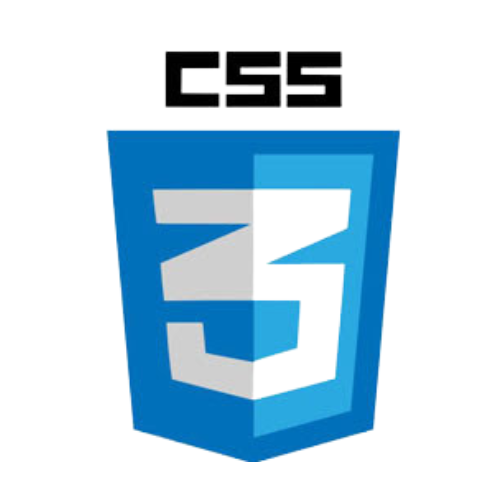
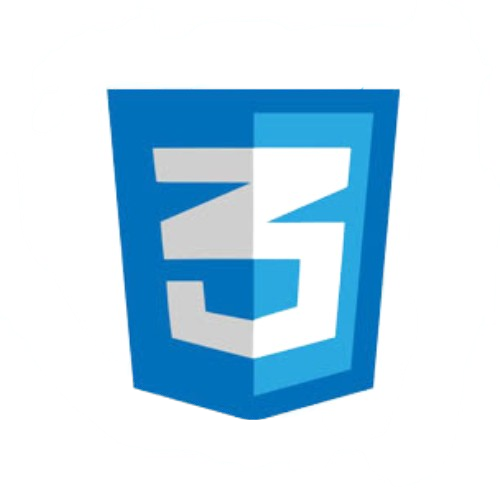
skills prontas

Changed region(s): [[0.21, 0.09, 0.81, 0.93]]

diff --git a/src/components/skills/Skills.tsx b/src/components/skills/Skills.tsx
@@ -6,9 +6,18 @@ import csharp from "../../img/csharp.png"
 import sass from "../../img/sass.png"
 import node from "../../img/node.png"
 import php from "../../img/php.png"
+import html from "../../img/html.png"
+import css from "../../img/css.png"
 import react from "../../img/react.png"
+import mysql from "../../img/mysql.png"
+import bootstrap from "../../img/bootstrap.png"
+import tailwind from "../../img/tailwinds.png"
+import figma     from "../../img/figma.png"
+import jquery from "../../img/jquery.png"
+import wordpress from "../../img/wordpress.png"
 import { useSelector } from "react-redux";
 import { RootState } from "../../store/store";
+import Marquee from "react-fast-marquee";
 
 export const Skills: React.FC = () => {
 
@@ -21,39 +30,64 @@ export const Skills: React.FC = () => {
 
     const claro: Tema = {
         DivImg: "p-2 shadow-[0px_10px_20px_#333333bd] rounded-2xl",
-        CssImg: "w-50 object-contain"
+        CssImg: "w-45 object-contain"
     }
 
     return (
         <main>
             <h1 className={`${darkMode ? "text-[#7f5af0]" : "text-[#0400ff]"} text-5xl py-10 flex justify-center`}>Skills</h1>
-            <div className="flex justify-center gap-5 my-7 mx-10">
-                <div className={claro.DivImg}>
-                    <img src={js} alt="" className={claro.CssImg} />
+            <Marquee speed={130}>
+                <div className="flex justify-center gap-5 m-5 ">
+                    <div className={claro.DivImg}>
+                        <img src={html} alt="" className={claro.CssImg} />
+                    </div>
+                    <div className={claro.DivImg}>
+                        <img src={css} alt="" className={claro.CssImg} />
+                    </div>
+                    <div className={claro.DivImg}>
+                        <img src={js} alt="" className={claro.CssImg} />
+                    </div>
+                    <div className={claro.DivImg}>
+                        <img src={ts} alt="" className={claro.CssImg} />
+                    </div>
+                    <div className={claro.DivImg}>
+                        <img src={react} alt="" className={claro.CssImg} />
+                    </div>
+                    <div className={claro.DivImg}>
+                        <img src={node} alt="" className={claro.CssImg} />
+                    </div>
+                    <div className={claro.DivImg}>
+                        <img src={redux} alt="" className={claro.CssImg} />
+                    </div>
+                    <div className={claro.DivImg}>
+                        <img src={csharp} alt="" className={claro.CssImg} />
+                    </div>
+                    <div className={claro.DivImg}>
+                        <img src={php} alt="" className={claro.CssImg} />
+                    </div>
+                    <div className={claro.DivImg}>
+                        <img src={wordpress} alt="" className={claro.CssImg} />
+                    </div>
+                    <div className={claro.DivImg}>
+                        <img src={mysql} alt="" className={claro.CssImg} />
+                    </div>
+                    <div className={claro.DivImg}>
+                        <img src={sass} alt="" className={claro.CssImg} />
+                    </div>
+                    <div className={claro.DivImg}>
+                        <img src={tailwind} alt="" className={claro.CssImg} />
+                    </div>
+                    <div className={claro.DivImg}>
+                        <img src={jquery} alt="" className={claro.CssImg} />
+                    </div>
+                    <div className={claro.DivImg}>
+                        <img src={bootstrap} alt="" className={claro.CssImg} />
+                    </div>
+                    <div className={claro.DivImg}>
+                        <img src={figma} alt="" className={claro.CssImg} />
+                    </div>
                 </div>
-                <div className={claro.DivImg}>
-                    <img src={ts} alt="" className={claro.CssImg} />
-                </div>
-
-                <div className={claro.DivImg}>
-                    <img src={react} alt="" className={claro.CssImg} />
-                </div>
-                <div className={claro.DivImg}>
-                    <img src={node} alt="" className={claro.CssImg} />
-                </div>
-                <div className={claro.DivImg}>
-                    <img src={redux} alt="" className={claro.CssImg} />
-                </div>
-                <div className={claro.DivImg}>
-                    <img src={csharp} alt="" className={claro.CssImg} />
-                </div>
-                <div className={claro.DivImg}>
-                    <img src={php} alt="" className={claro.CssImg} />
-                </div>
-                <div className={claro.DivImg}>
-                    <img src={sass} alt="" className={claro.CssImg} />
-                </div>
-            </div>
+            </Marquee>
         </main >
     )
 }

diff --git a/src/components/NavBar/NavBar.tsx b/src/components/NavBar/NavBar.tsx
@@ -33,13 +33,13 @@ const NavBar: React.FC = () => {
     const claro: Tema = {
         bgColor: "bg-[#fff] shadow-[0px_5px_15px_rgba(1,0,0,0.1)]",
         textColor: "text-[#7f5af0] hover:text-[#a48bee] text-xl px-6 py-2",
-        buttonBg: "w-10 h-10 text-[#1f1f1f] border-2 p-1 rounded-full"
+        buttonBg: "w-10 h-10 text-[#1f1f1f] p-1 rounded-full"
     };
 
     const escuro: Tema = {
         bgColor: "bg-[#1f1f1f] shadow-[0px_5px_15px_rgba(255,255,255,0.1)]",
         textColor: "text-[#0400ff] hover:text-[#fff] text-xl px-6 py-2",
-        buttonBg: "w-10 h-10 text-[#fff] border-2 p-1 rounded-full"
+        buttonBg: "w-10 h-10 text-[#fff] p-1 rounded-full"
     };
 
     return (
